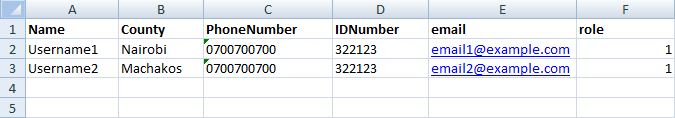
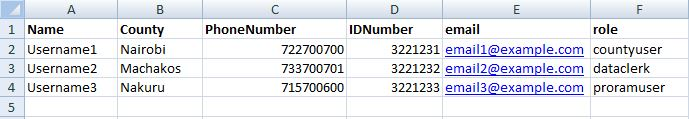
umanagement excel export,plus minor changes
Former-commit-id: d6bb0a50352279fb9e7a5a2eca7707ca3c859e6b
Former-commit-id: 54d5c321ed64b409670545a951ec5ac8f912c28d

diff --git a/app/Http/Controllers/UserManagement.php b/app/Http/Controllers/UserManagement.php
@@ -80,15 +80,7 @@ class UserManagement extends Controller {
 
 
 	{
-		// if(Request::ajax()) {
-  //     $data = Input::all();
-  //     // $county = $data['county'];
-  //      $name = $data['name'];
-  //     //  $idnum = $data['idnum'];
-  //     //  $phone = $data['phone'];
-  //     //   $role = $data['role'];
-  //     //   $email = $data['email'];
-
+	
 
        
 
@@ -108,7 +100,7 @@ class UserManagement extends Controller {
 	
 	$Counties = countie::all();
 	$x[1]=$Counties[$x[1]]->Name;	
-	$statusnum=1;
+	//$statusnum=1;
 			
 	
 
@@ -121,7 +113,7 @@ class UserManagement extends Controller {
 		'email'=>$x[4],
 		'password'=>bcrypt('123456'),
 		'role'=>$x[5],
-		'status'=>$statusnum
+		'status'=>'1'
 		);
 		
 		
@@ -133,7 +125,7 @@ class UserManagement extends Controller {
 	$users=User::all();
 	
 	
-				return view('usermanagement.view')->with('users',$users)->with('location','umanage')->with('title','User Management');
+			return redirect('usermanagement/viewusers')->with('users',$users)->with('location','umanage')->with('title','User Management');
 
 		
 	}
@@ -225,7 +217,7 @@ class UserManagement extends Controller {
 	$users=User::all();
 	
 	
-				return view('usermanagement.view')->with('users',$users)->with('location','umanage')->with('title','User Management');
+				return redirect('usermanagement/viewusers')->with('users',$users)->with('location','umanage')->with('title','User Management');
 
 	}
 
@@ -240,22 +232,109 @@ class UserManagement extends Controller {
 		//
 
 
-		$user=User::where('id','=',$id)->get();
-		if($user->status==0)
+		//$user=User::where('id','=',$id)->get();
+		$user =User::find($id);
+		
+		if($user->status===0)
 		{
+				$user->status='1';
+				$user->password=bcrypt('123456');
+				 
+		 
 
 		}
 		else
 		{
+				$user->status='0';
+				$user->password=bcrypt('!!##9ax$kbyx*%');
 
 
 		}
+
+
+		$user->update();
+		$users=User::all();
+
+		return redirect('usermanagement/viewusers')->with('users',$users)->with('location','umanage')->with('title','User Management');
+
+
+	}
+
+
+
+	public function reset($id)
+
+	{
+
+		$user =User::find($id);
+		$user->password=bcrypt('123456');
+		$user->update();
+		$users=User::all();
+		return redirect('usermanagement/viewusers')->with('users',$users)->with('location','umanage')->with('title','User Management');
+
+
 	}
 
 public function multi()
 	{
 		//
 						return view('usermanagement.multi')->with('location','umanage')->with('title','User Management');
+
+	}
+
+
+
+
+	public function export(Excel $excel)
+	{
+		
+
+
+				$excel->create('ALL_USERS', function($ex) {
+
+	    $ex->sheet('Sheetname', function($sheet) {
+	    	
+	    		$sheet->row(1, array(
+     'Name',	'County'	,'PhoneNumber',	'IDNumber'	,'email'	,'role'		
+
+			)
+	    		
+	    		);
+	    		for($i=1;$i<sizeof(User::all());$i++)
+	    		{
+		    		if(User::find($i)!= '')
+
+		    		{
+
+		    			if(User::find($i)->role===0)
+		    			{
+		    				$role='countyuser';
+		    			}
+		    			if(User::find($i)->role===1)
+		    			{
+		    				$role='dataclerk';
+		    			}
+		    			if(User::find($i)->role===2)
+		    			{
+		    				$role='programuser';
+		    			}
+		    			if(User::find($i)->role===3)
+		    			{
+		    				$role='systemuser';
+		    			}
+
+						$sheet->row($i+1, array(
+		     			User::find($i)->name, User::find($i)->county,User::find($i)->PhoneNumber,User::find($i)->IDNumber,User::find($i)->email,$role
+						));
+					}
+				}
+
+
+	       
+
+	    });
+
+	})->download('xls');
 
 	}
 

diff --git a/app/Http/routes.php b/app/Http/routes.php
@@ -37,6 +37,11 @@ Route::get('usermanagement/viewusers','UserManagement@index');
 Route::get('usermanagement/monitor','UserManagement@show');
 Route::get('usermanagement/addusers','UserManagement@create');
 Route::get('usermanagement/addusers_multi','UserManagement@multi');
+Route::get('usermanagement/status_change/{id}','UserManagement@status_change');
+Route::get('usermanagement/reset/{id}','UserManagement@reset');
+Route::get('usermanagement/export','UserManagement@export');
+
+
 Route::post('usermanagement/multi_upload','UserManagement@upload');
 
 

diff --git a/resources/views/usermanagement/create.blade.php b/resources/views/usermanagement/create.blade.php
@@ -26,6 +26,7 @@
          </div>
    </div>
  {!! Form::open(['url' => 'usermanagement/store']) !!}
+
 <div class="box-body">
             <div class="form-group">
               <label class="col-md-4 control-label">Name</label>
@@ -95,7 +96,6 @@
          <div class="form-group">
          
               <div class="col-md-12">
-            
             {!! Form::submit('Add User',['class' => 'use-address btn btn-primary form-control']) !!}
          </div>
             </div>

diff --git a/app/User.php b/app/User.php
@@ -22,7 +22,7 @@ class User extends Model implements AuthenticatableContract, CanResetPasswordCon
 	 *
 	 * @var array
 	 */
-	protected $fillable = ['name', 'email', 'password','county','PhoneNumber','IDNumber','role'];
+	protected $fillable = ['name', 'email', 'password','county','PhoneNumber','IDNumber','role','status'];
 
 	/**
 	 * The attributes excluded from the model's JSON form.

diff --git a/resources/views/usermanagement/monitor.blade.php b/resources/views/usermanagement/monitor.blade.php
@@ -208,6 +208,16 @@
                     </thead>
                     
                     <tbody>
+                    <tr>
+                      <?php 
+
+                     echo date('d-F-Y');
+
+
+
+
+                      ?>
+                      </tr>
                       
                       
 

diff --git a/resources/views/usermanagement/multi.blade.php b/resources/views/usermanagement/multi.blade.php
@@ -41,8 +41,8 @@
 
 
               <center>
-              <div>
-                <img src="/img/excelformat.JPG">
+              <div class="col-xs-12">
+                <img src="/img/excelformat.jpg">
               </div> 
               </center>   
               <br>

diff --git a/resources/views/usermanagement/view.blade.php b/resources/views/usermanagement/view.blade.php
@@ -63,6 +63,7 @@
 
 <div class="box box-primary">
                 <div class="box-header">
+                <a style="float:right" href="/usermanagement/export">Download excel</a>
                   <h3 class="box-title">
 
                   Users
